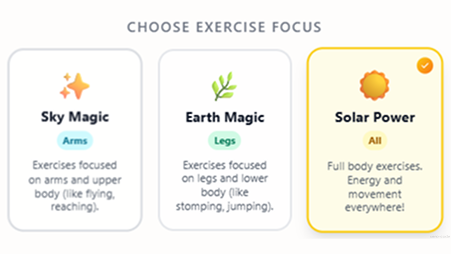
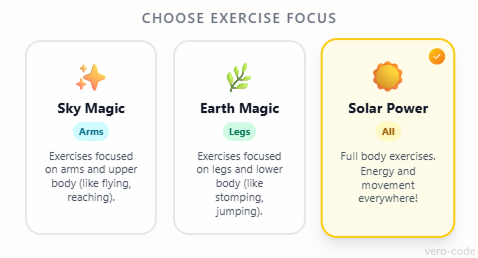
docs: update images

diff --git a/README.md b/README.md
@@ -47,13 +47,13 @@ Gemini Tales - Newer Demo:
 
 Gemini Tales offers two distinct ways to experience the magic:
 
-| Feature | 🎙 Live Mode (Spontaneous) | 🤖 Agent Mode (Structured) |
-|---|---|---|
-| **Puck's Role** | **The Improviser**: Composes and narrates purely on the fly. | **The Narrator**: Brings a carefully crafted script to life. |
-| **Preparation** | No wait time. Jump straight into the action. | 30-60s "Story Crafting" context formation. |
-| **Backend Agents** | Idle. | **Active Background**: Researching and weaving the plot. |
-| **Technology** | Direct **Gemini Live 2.5 Flash** session. | **Orchestrator (3.1 Pro)** + **Live Narrator**. |
-| **Visual Flow** | Interleaved watercolor illustrations. | Themed story-driven scenes. |
+| Feature            | 🎙 Live Mode (Spontaneous)                                   | 🤖 Agent Mode (Structured)                                   |
+| ------------------ | ------------------------------------------------------------ | ------------------------------------------------------------ |
+| **Puck's Role**    | **The Improviser**: Composes and narrates purely on the fly. | **The Narrator**: Brings a carefully crafted script to life. |
+| **Preparation**    | No wait time. Jump straight into the action.                 | 30-60s "Story Crafting" context formation.                   |
+| **Backend Agents** | Idle.                                                        | **Active Background**: Researching and weaving the plot.     |
+| **Technology**     | Direct **Gemini Live 2.5 Flash** session.                    | **Orchestrator (3.1 Pro)** + **Live Narrator**.              |
+| **Visual Flow**    | Interleaved watercolor illustrations.                        | Themed story-driven scenes.                                  |
 
 > **Note on Agent Mode**: While the background agents (Researcher, Judge, Storysmith) are hard at work forming the perfect context, their direct technical scripts are kept "behind the scenes" to keep the child's interface clean and magical. Look forward to seeing their raw creative process in a future **Gemini Tales Premium** release!
 
@@ -67,11 +67,11 @@ To ensure children get the exact type of movement they need, Gemini Tales now fe
   <img src="assets/exercise-focus.png" alt="Exercise Focus Selection" width="800">
 </p>
 
-| Focus | Mode | Description |
-|---|---|---|
-| ✨ **Sky Magic** | **Upper Body** | Exercises focused on arms and upper body (like flying, waving wands, reaching for the stars). |
-| 🌿 **Earth Magic**| **Lower Body** | Exercises focused on legs and lower body (like stomping, jumping, running, balancing). |
-| ☀ **Solar Power**| **Full Body**  | Full body exercises. Energy and movement everywhere! |
+| Focus              | Mode           | Description                                                                                   |
+| ------------------ | -------------- | --------------------------------------------------------------------------------------------- |
+| ✨ **Sky Magic**   | **Upper Body** | Exercises focused on arms and upper body (like flying, waving wands, reaching for the stars). |
+| 🌿 **Earth Magic** | **Lower Body** | Exercises focused on legs and lower body (like stomping, jumping, running, balancing).        |
+| ☀ **Solar Power** | **Full Body**  | Full body exercises. Energy and movement everywhere!                                          |
 
 ---
 
@@ -87,7 +87,7 @@ To ensure children get the exact type of movement they need, Gemini Tales now fe
 ```mermaid
 graph TD
     User([User]) <--> Browser["Browser (Magic Mirror UI)"]
-    
+
     subgraph "Main Interaction Agent (Puck)"
         Browser <-->|WebSocket| Puck["Puck (Live Narrator)"]
         subgraph "Puck's Toolbox"
@@ -97,20 +97,20 @@ graph TD
         Puck <--> Illustrator
         Puck <--> Awards
     end
-    
+
     subgraph "Google AI Infrastructure"
         Puck <-->|Multimodal Flow| GeminiLive[Gemini Live 2.5 Flash]
         Illustrator -->|Video Generation| Veo[Veo 3.1]
         Illustrator -->|Dynamic Rendering| FlashImage[Gemini 2.5 Flash-Image]
     end
-    
+
     subgraph "Supporting Brain (Agent Mode)"
         Puck -->|Request Pipeline| Orchestrator[Orchestrator]
         Orchestrator <-->|A2A| Researcher[Researcher]
         Orchestrator <-->|A2A| Judge[Judge]
         Orchestrator <-->|A2A| Storysmith[Storysmith]
     end
-    
+
     style Browser fill:#f9f,stroke:#333,stroke-width:2px
     style Puck fill:#f9f,stroke:#333,stroke-width:2px
     style Orchestrator fill:#ccf,stroke:#333,stroke-width:2px
@@ -118,6 +118,16 @@ graph TD
 ```
 
 > 📖 **Deep Dive**: For a detailed look at system design, data flows, and design decisions, see the [**Full Architecture Documentation**](ARCHITECTURE.md).
+
+#### ADK Trace Example
+
+When using **Agent Mode**, the Google Agent Development Kit provides detailed tracing of all agent invocations, timing, and dependencies:
+
+<p align="center">
+  <img src="assets/adk-web-trace.png" alt="ADK Web Trace - Agent Pipeline Visualization" width="800">
+</p>
+
+This trace shows the complete flow: **Puck** → **Orchestrator** → **Researcher** → **Judge** → **Storysmith** → **Content Builder**, with detailed timing for each step.
 
 ---
 
@@ -136,34 +146,47 @@ graph TD
 Upgraded to **[Gemini 3.1 Flash-Image Preview (Nano Banana 2)](https://ai.google.dev/gemini-api/docs/models/gemini)** with three powerful improvements:
 
 ### 1. 🎨 High-Fidelity Photo Transformation
+
 Transform any photo into a magical fairytale character while maintaining perfect recognizability.
+
 - **Smart Detail Preservation**: Automatically preserves facial structure, eye color, distinctive features, hair color/style, and natural expression.
 - **Quality Guarantee**: Person remains **immediately recognizable** while being stunningly illustrated.
 - **How It Works**: Upload a photo → Gemini transforms it into a watercolor fairytale portrait with magical elements while keeping the person's key features intact.
 - **Technical**: Multi-turn chat preserves context for consistent character refinement.
 
 ### 2. 🔍 Google Search Grounding for Scenes
+
 Scene illustrations now use real-world information for enhanced accuracy and realism.
+
 - **Accurate Locations**: Mention specific places (e.g., "the Amazon rainforest") and Gemini automatically grounds the visual details in real geography.
 - **Rich Details**: Accurate plants, animals, landmarks, and environmental features based on actual locations.
 - **Magical Realism**: Maintains whimsical fairytale style while depicting real-world accuracy.
 - **Technical**: Google Search tool integrated into scene generation chat session for live data fetching.
 
 ### 3. 🔄 Character 360° View (Different Poses)
+
 See your character from multiple angles while maintaining perfect consistency.
+
 - **4 Interactive Views**: Profile Right → Profile Left → From Behind → Bird's Eye (three-quarter from above).
 - **Perfect Consistency**: Uses multi-turn chat memory to ensure the same character across all poses.
 - **Easy to Use**: One-click buttons in the "360° View" section to rotate your character.
 - **Technical**: Same `chat_avatar` session maintains character memory across multiple pose generations.
 
+<p align="center">
+  <img src="assets/360_view.png" alt="360 View Character Angles Interface" width="500">
+</p>
+
 ### Configuration
+
 Model names are now externalized to environment variables for easy customization:
+
 ```env
 VITE_MODEL_ID_IMAGE=gemini-3.1-flash-image-preview
 VIDEO_MODEL_ID=veo-3.1-generate-preview
 ```
 
 Separate chat sessions optimize image quality:
+
 - **Avatar Session (1:1, 1K resolution)**: Character portraits and poses.
 - **Scene Session (16:9, 2K resolution, with Google Search)**: Story illustrations.
 
@@ -183,7 +206,7 @@ The "Magic Mirror" cockpit provides full transparency and control over the AI ex
 ## 🛠 Tech Stack
 
 - **Frontend**: React 19, TypeScript, Tailwind CSS.
-- **AI Models**: 
+- **AI Models**:
   - **Gemini Live 2.5 Flash** (Real-time Audio/Vision)
   - **Gemini 3.1 Pro & Flash-Lite** (Agentic Reasoning)
   - **Gemini 3.1 Flash-Image Preview (Nano Banana 2)** (High-fidelity avatars & scenes with Google Search grounding)
@@ -198,6 +221,7 @@ The "Magic Mirror" cockpit provides full transparency and control over the AI ex
 ## 🚀 Getting Started
 
 ### 1. Prerequisites
+
 - Python 3.10+ and `uv` installed.
 - Node.js 18+ and `npm`.
 - Google Cloud Project with Gemini API access.
@@ -207,21 +231,26 @@ The "Magic Mirror" cockpit provides full transparency and control over the AI ex
 To run the full experience locally, start these components in separate terminals:
 
 **A. Start ADK Agents (The Brain)**
+
 ```powershell
 cd backend/agents
 .\run_local.ps1
 ```
-*This starts the sub-agents on ports 8001–8004 required for Agent Mode.*
+
+_This starts the sub-agents on ports 8001–8004 required for Agent Mode._
 
 **B. Start Main Agent (Puck)**
+
 ```bash
 cd backend
 uv sync
 uv run python app/main.py
 ```
-*Starts Puck, the Live Narrator, ready to see and hear you (Port 8000).*
+
+_Starts Puck, the Live Narrator, ready to see and hear you (Port 8000)._
 
 **C. Start Frontend UI**
+
 ```bash
 cd frontend
 npm install
@@ -233,25 +262,32 @@ npm run dev
 To ensure this project is **fully reproducible**, I've included automation scripts that handle the complex deployment of my multi-agent architecture to **Google Cloud Run**.
 
 #### A. Prerequisites for Cloud
+
 - [Google Cloud CLI](https://cloud.google.com/sdk/docs/install) installed and authenticated (`gcloud auth login`).
 - An active Google Cloud Project with Billing enabled.
 - Your `.env` file in `backend/app/` should contain your `GOOGLE_CLOUD_PROJECT` and `GOOGLE_CLOUD_LOCATION`.
 
 #### B. Deploy Supporting Agents (The Brain)
+
 These agents (Researcher, Judge, Storysmith, Orchestrator) provide the agentic reasoning for the story mode.
+
 ```powershell
 cd backend/agents
 .\deploy.ps1
 ```
-*This script automatically bundles shared logic, configures security, and deploys 4 microservices to Cloud Run.*
+
+_This script automatically bundles shared logic, configures security, and deploys 4 microservices to Cloud Run._
 
 #### C. Deploy Main App (Puck + Frontend)
+
 This deploys the central "Magic Mirror" interface and the Live Narrator.
+
 ```powershell
 # Run from the repository root
 .\deploy_app.ps1
 ```
-*This script handles the dual-stage build: compiling the React 19 frontend and wrapping it with the FastAPI/Puck bridge into a single production-ready container.*
+
+_This script handles the dual-stage build: compiling the React 19 frontend and wrapping it with the FastAPI/Puck bridge into a single production-ready container._
 
 > 💡 **Pro-Tip**: After deployment, you can manage all AI parameters (Model IDs, API Keys) directly through the Cloud Run environment variables without needing to re-deploy.
 
@@ -262,6 +298,7 @@ This deploys the central "Magic Mirror" interface and the Live Narrator.
 Follow these steps to ensure a magical and stable session:
 
 ### 1. The Character Workshop
+
 - **Customize Puck**: Enter a description for your character or upload a photo to create a personalized fairytale avatar.
   - 📸 **Photo Upload**: Transform any photo into a magical fairytale character using **High-Fidelity detail preservation** — the person remains instantly recognizable while becoming beautifully illustrated.
 - **Bring Him to Life**: Once Puck is generated, click the **Animate** button to see him start moving! (Powered by **Veo 3.1**).
@@ -275,10 +312,12 @@ Follow these steps to ensure a magical and stable session:
 - **Choose Your Journey**: Select **Live Mode** for spontaneous play or **Agent Mode** for a structured, multi-agent story.
 
 ### 2. Ignition
+
 - **Live Mode**: Click **Connect API** to establish a direct link with Gemini.
 - **Agent Mode**: Click **🚀 Generate Story with Agents** to begin the story crafting process.
 
 ### 3. Magical Interaction
+
 - **Listen & Act**: Follow the spoken instructions from Puck.
 - **Watch the Magic**: As you journey through the tale, Puck will automatically generate beautiful illustrations for every new scene using **Google Search grounding** — real locations and elements are accurately depicted while maintaining a whimsical fairytale style.
 - **Earn Badges**: Successfully complete physical tasks to unlock **Achievements** and see your badge collection grow!
@@ -287,6 +326,7 @@ Follow these steps to ensure a magical and stable session:
 - **Chat Fallback**: If you're in a quiet place, you can also type messages directly into the **Chat Hub**.
 
 ### 4. Troubleshooting
+
 - **No Sound/Image?**: Ensure the correct device is selected in the **Microphone** and **Camera** dropdowns before clicking "Start".
 - **Connection**: Check the **Debug Console** to verify that the WebSocket status is "Connected".
 
@@ -305,4 +345,4 @@ Check out the full story of how I built an "AI Nanny" to fight the sedentary lif
 
 MIT — see [LICENSE](LICENSE).
 
-*Created with ❤ for the next generation of explorers by [Veronika Kashtanova](https://x.com/veron_code)*
+_Created with ❤ for the next generation of explorers by [Veronika Kashtanova](https://x.com/veron_code)_
